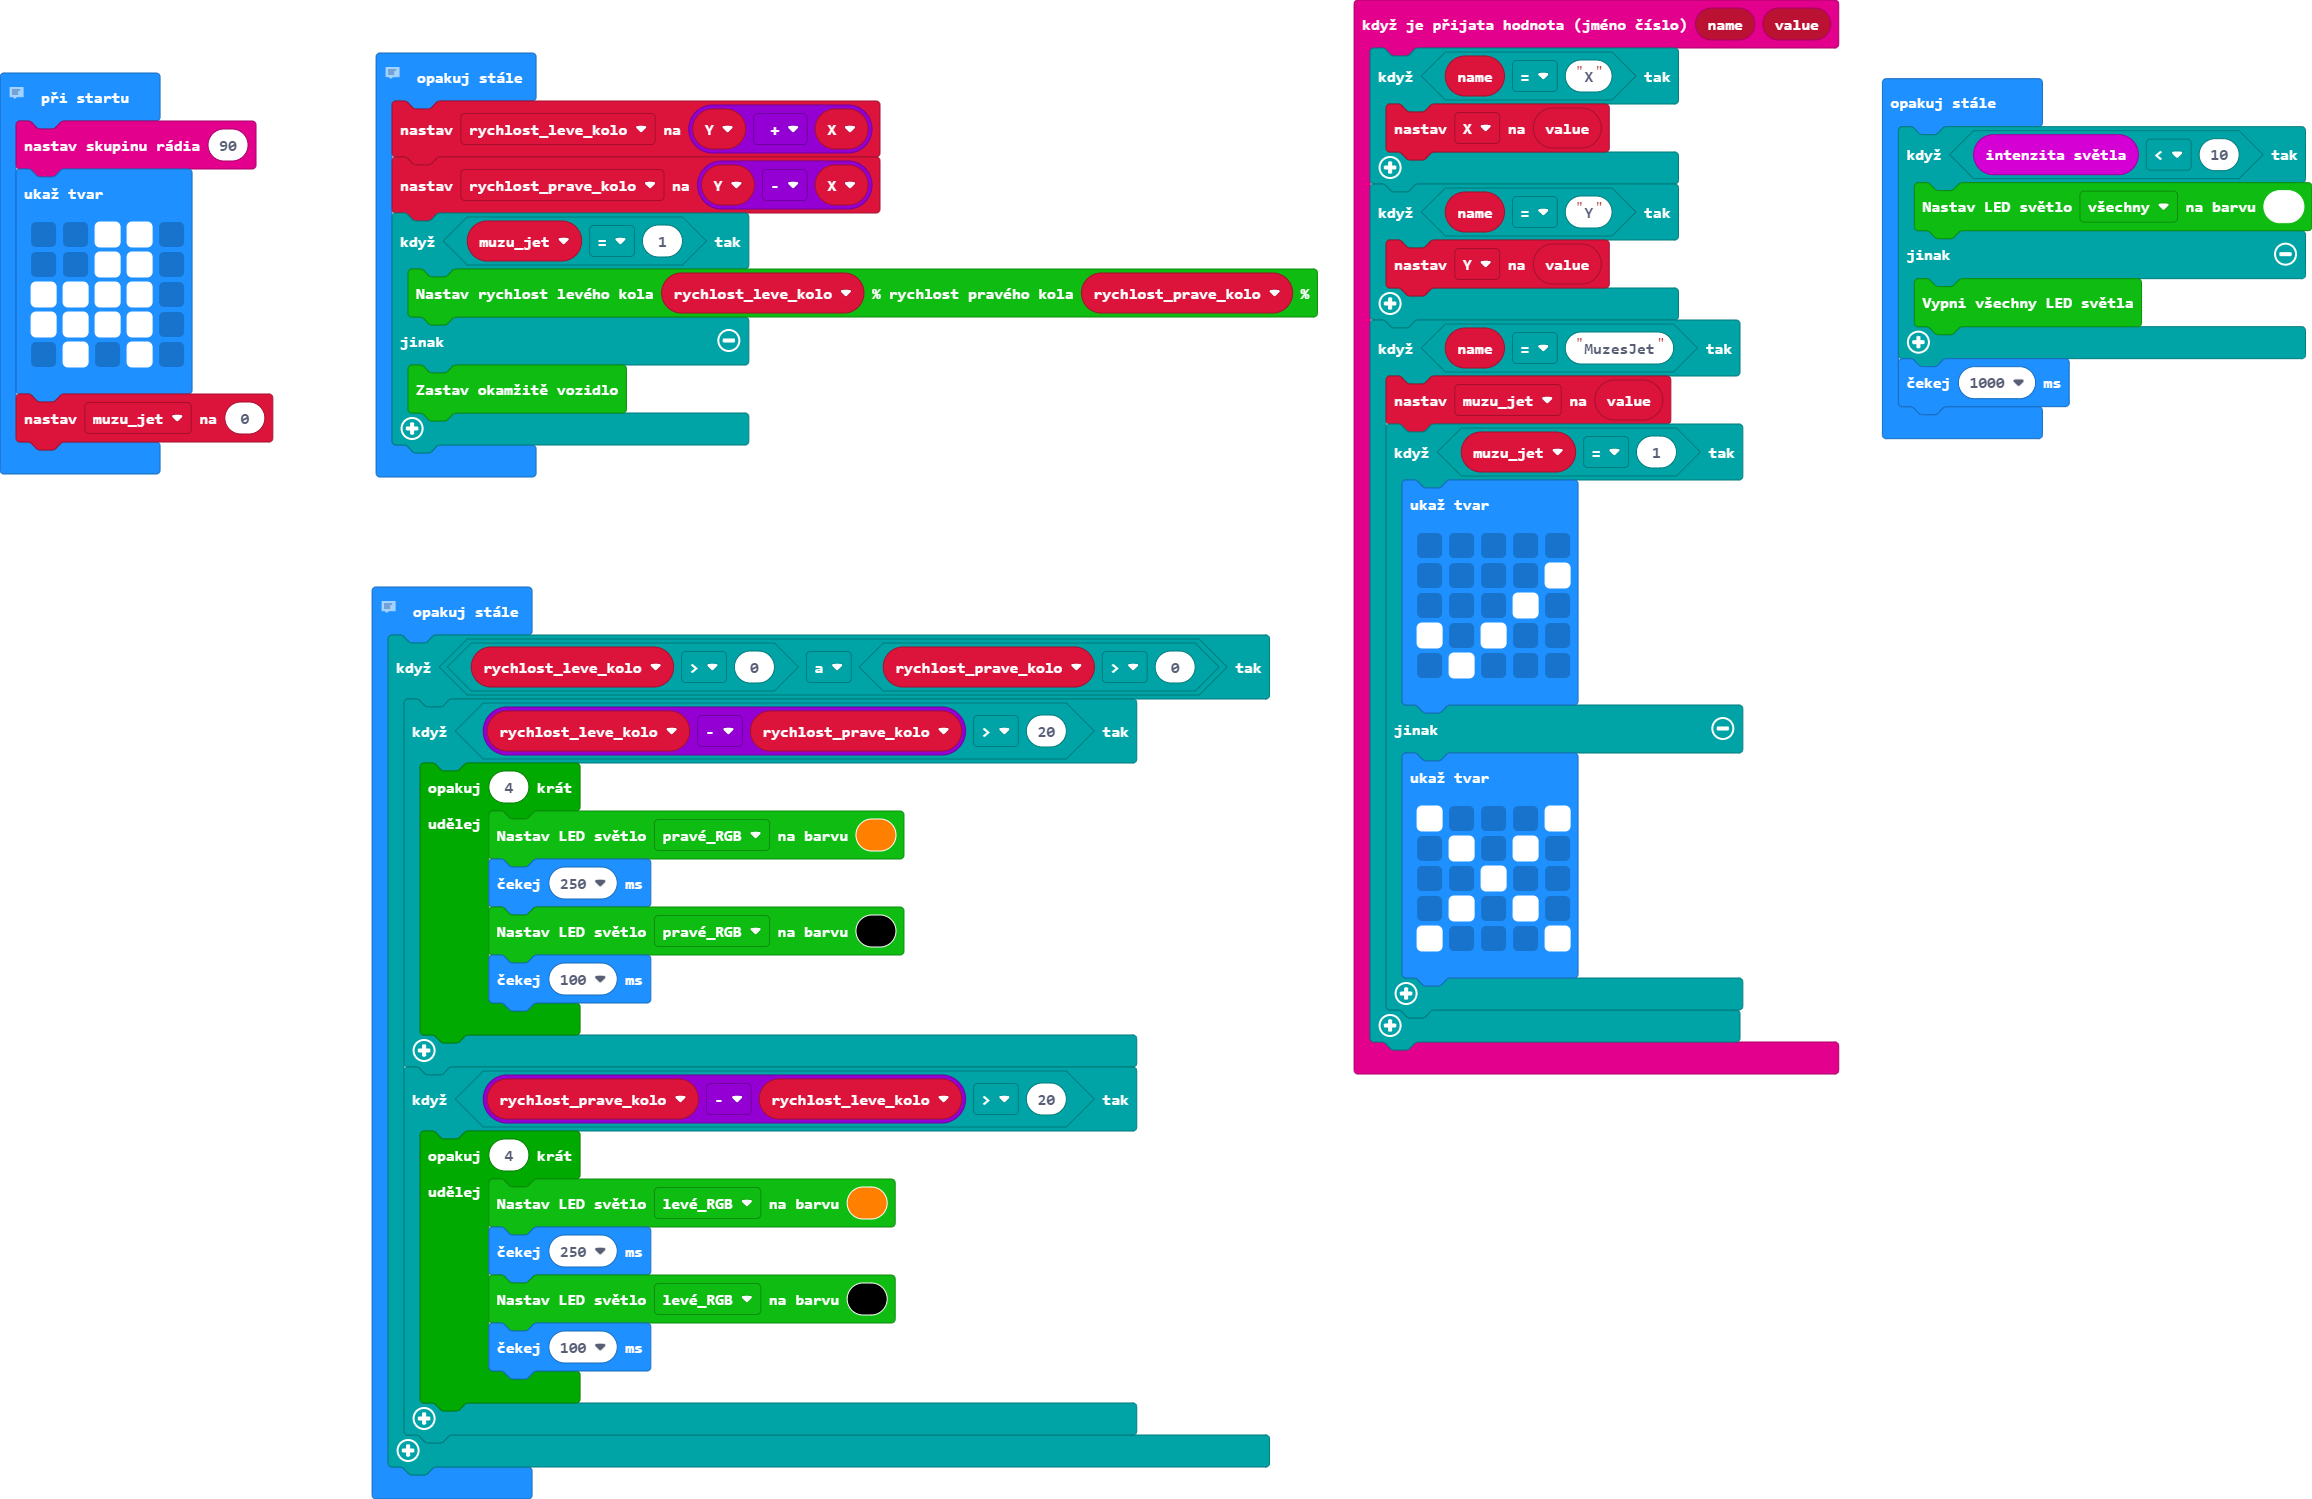
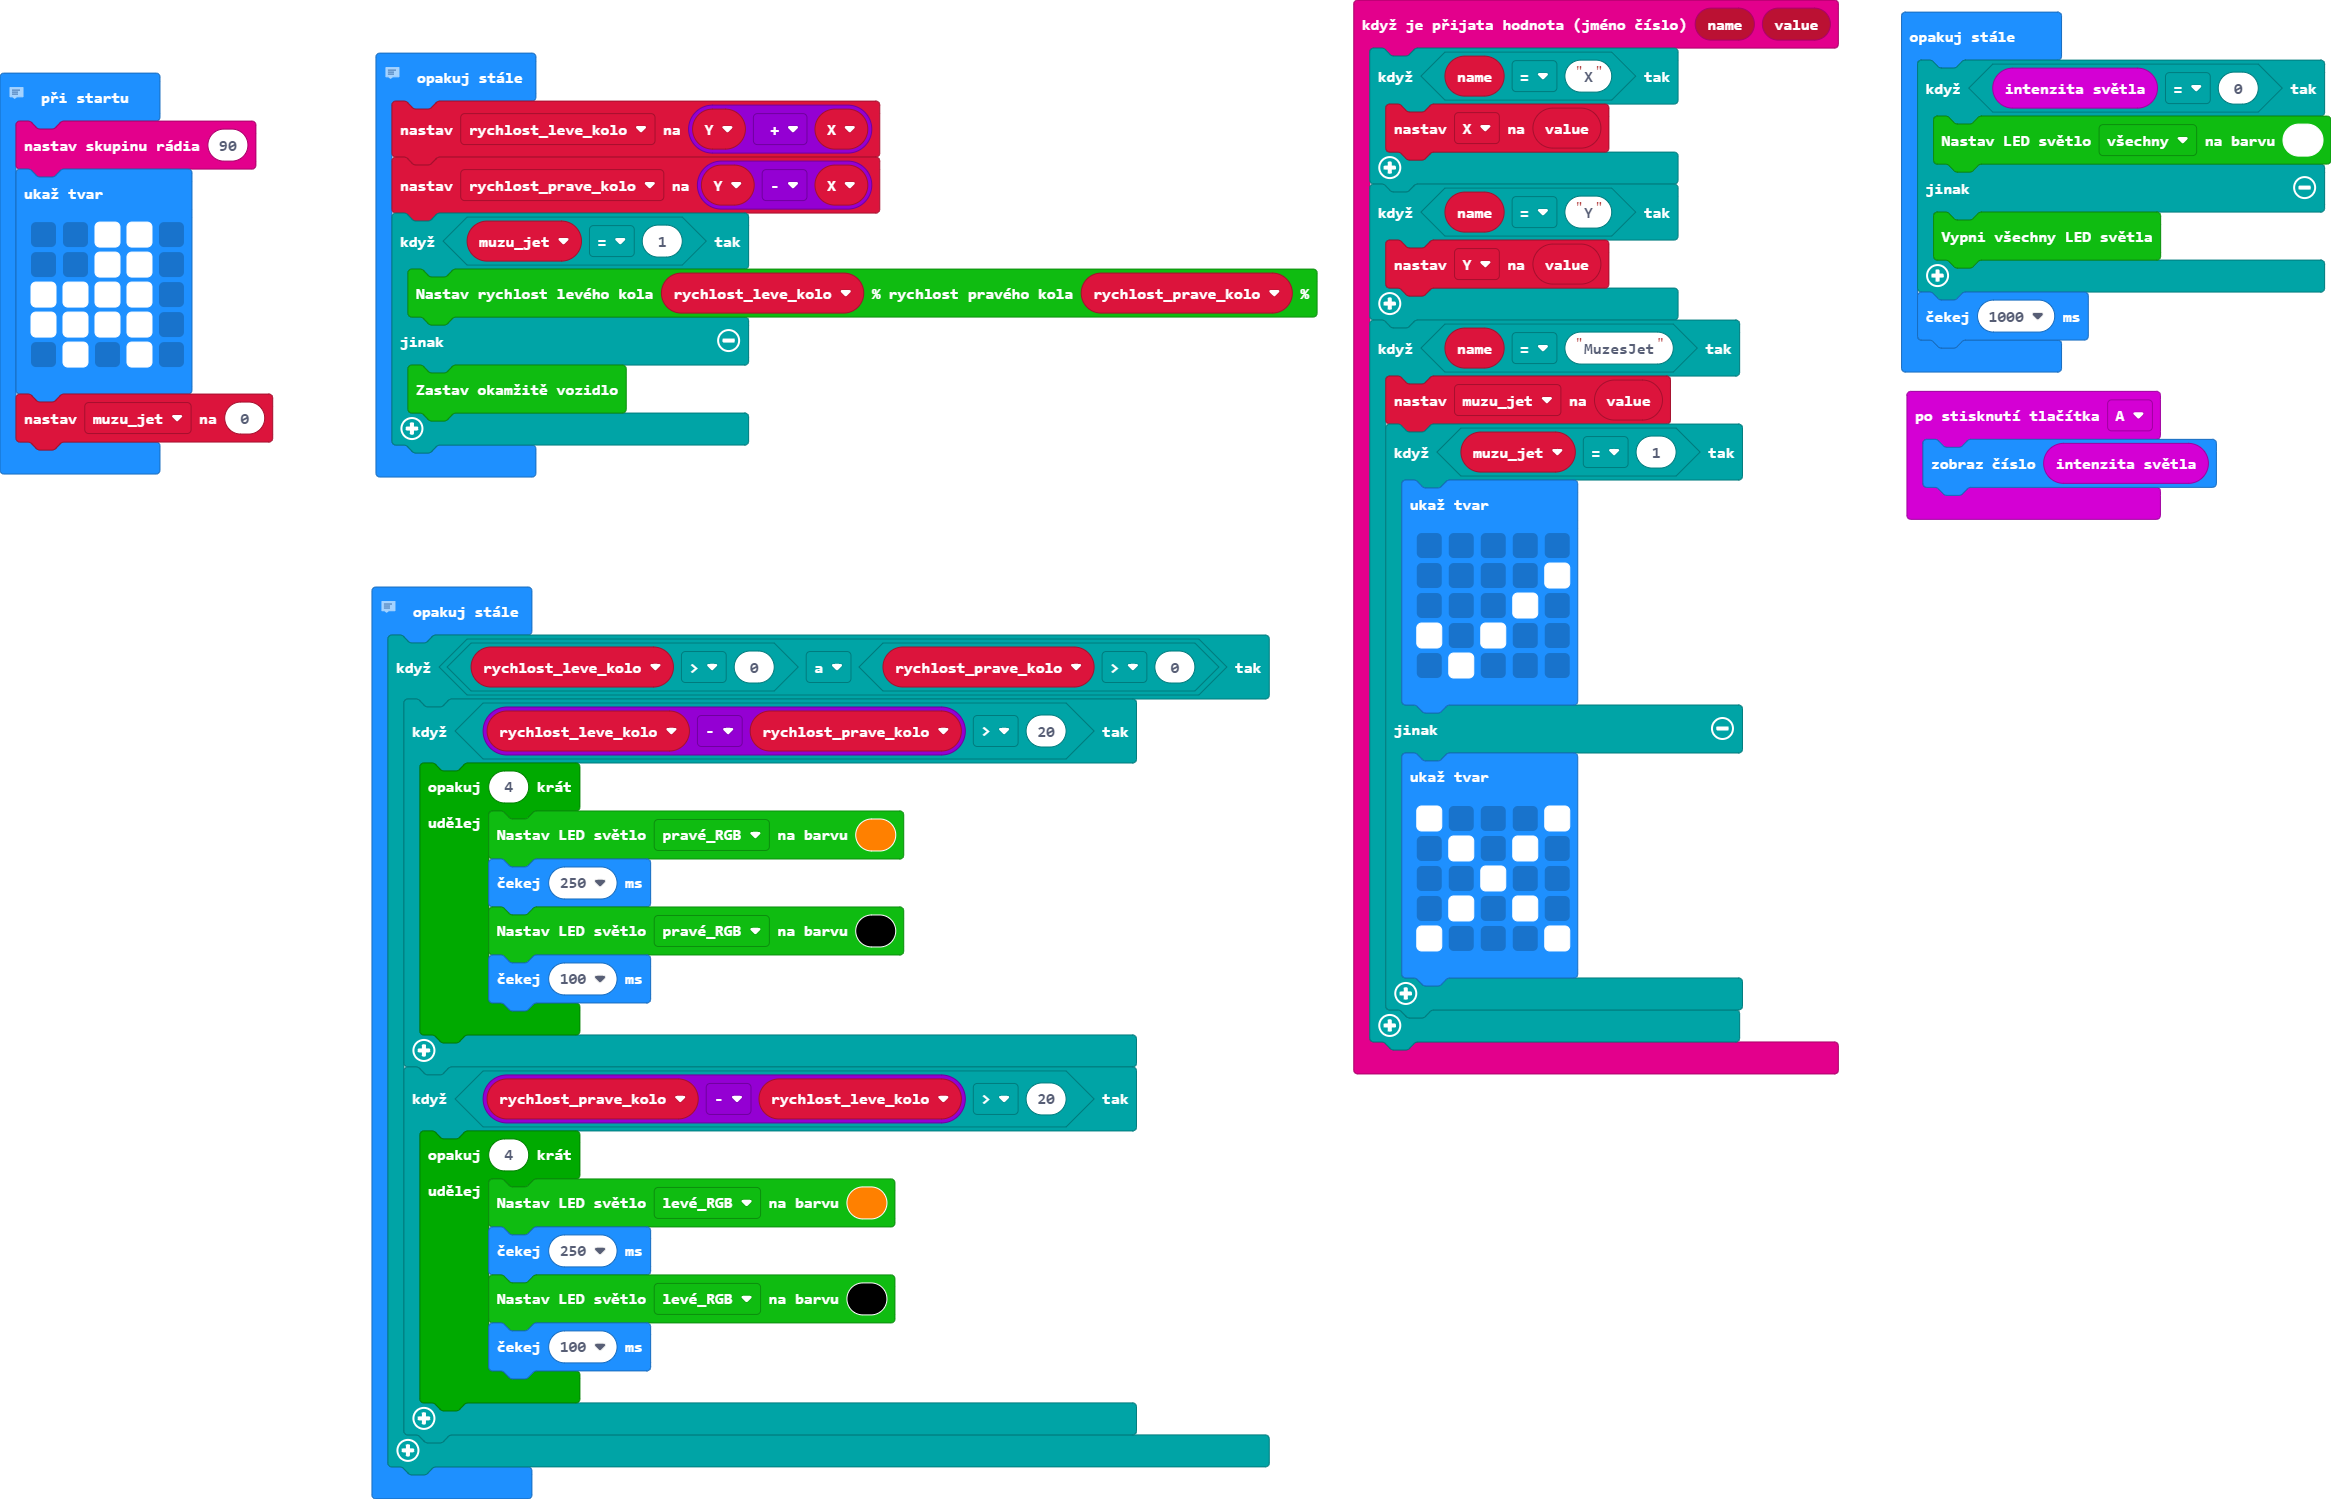
pred zmenou smerovek

diff --git a/main.ts b/main.ts
@@ -1,3 +1,6 @@
+input.onButtonPressed(Button.A, function () {
+    basic.showNumber(input.lightLevel())
+})
 radio.onReceivedValue(function (name, value) {
     if (name == "X") {
         X = value
@@ -56,7 +59,7 @@ basic.forever(function () {
     }
 })
 basic.forever(function () {
-    if (input.lightLevel() < 10) {
+    if (input.lightLevel() == 0) {
         cuteBot.colorLight(cuteBot.RGBLights.ALL, 0xffffff)
     } else {
         cuteBot.closeheadlights()
